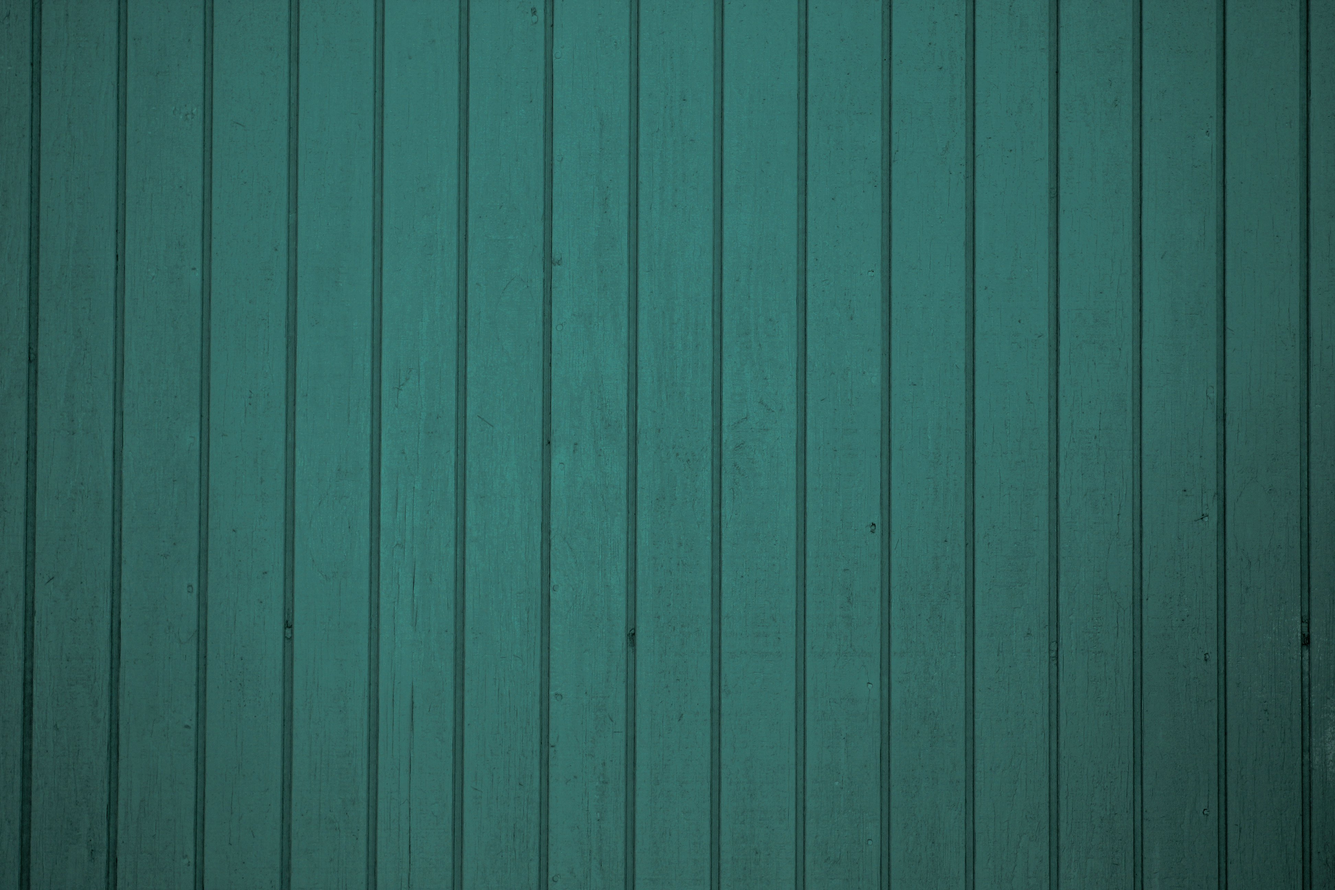
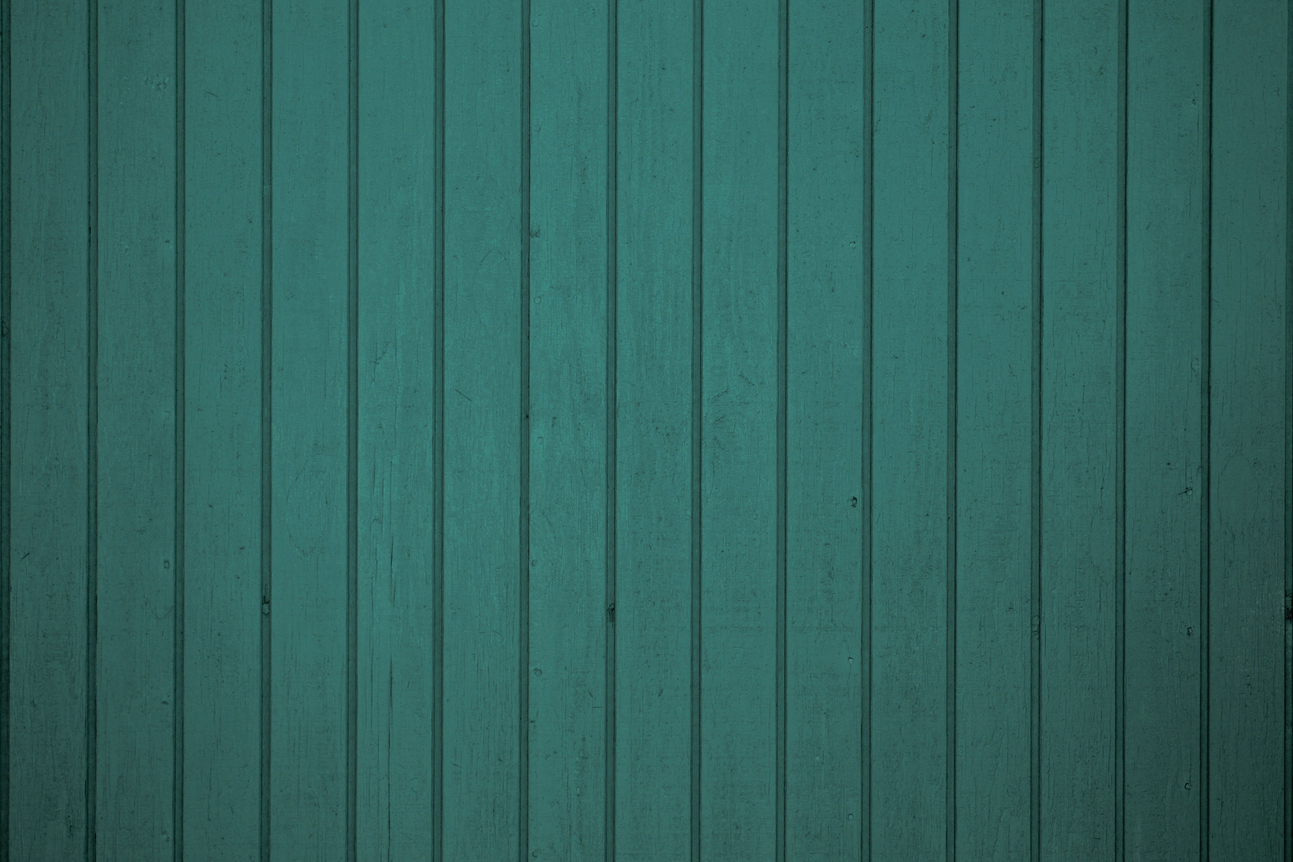
added cabin backround image to login page

diff --git a/src/app/login/login.scss b/src/app/login/login.scss
@@ -6,17 +6,23 @@
   display: flex;
   flex-direction: column;
   align-items: center;
+  justify-content: flex-end;
   height: 100%;
   // background-image: url('../../assets/images/wall.jpg');
   // background-repeat: no-repeat;
   // background-position: center;
-  background-color: rgb(94, 201, 99);
+  background-image: url(../../assets/images/login.jpg);
+  background-position: center;
+  background-repeat: no-repeat;
+  background-size: cover;
 }
 
 .form-wrapper {
   display: flex;
   flex-direction: column;
   align-items: center;
+  justify-content: center;
+  margin-bottom: 75px;
 }
 .form-field {
   margin-bottom: 1em;

diff --git a/src/app/login/login.component.html b/src/app/login/login.component.html
@@ -1,5 +1,4 @@
 <div class="login-wrapper">
-    <h1 class="header">Welcome to the Cabin</h1>
     <div class="container">
       <div>
         <div>
@@ -30,6 +29,7 @@
               Incorrect Username or Password
             </div>
           </form>
+          
         </div>
       </div>
     </div>
